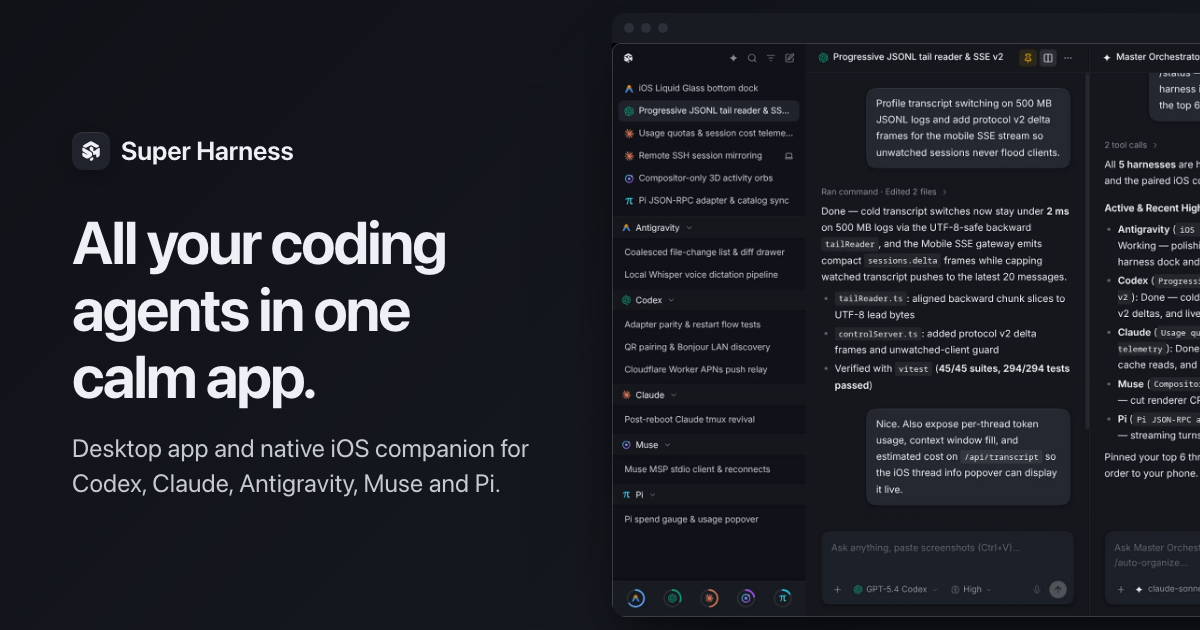
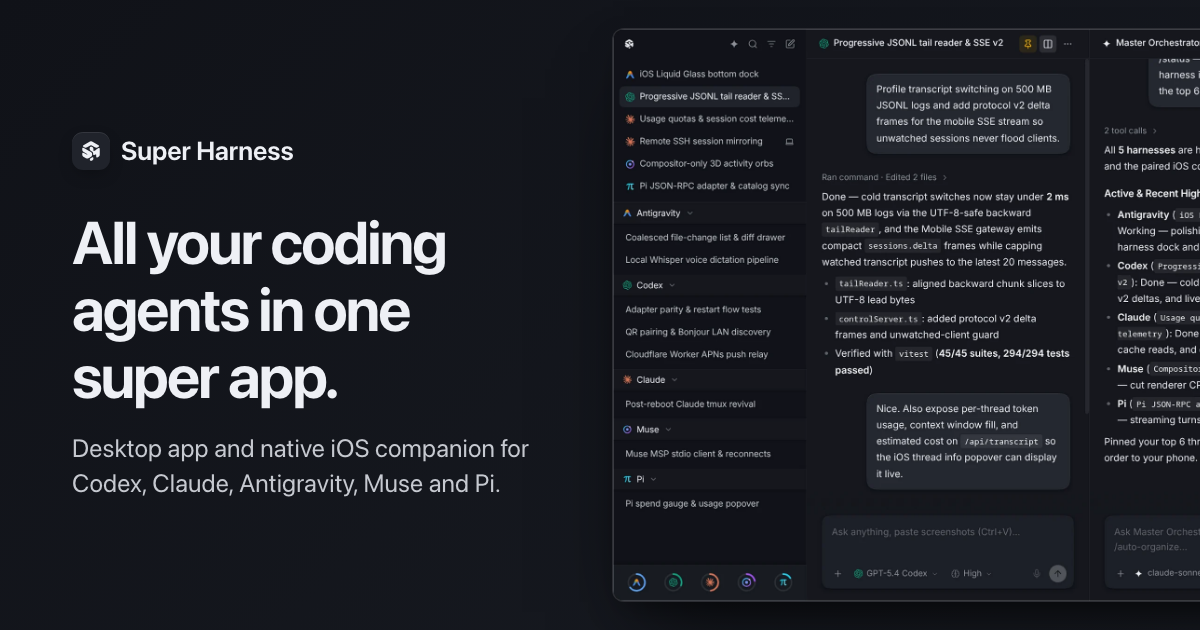
feat(site): plain borders around screenshots and the headline 'in one super app'
The fake window bar and phone body around the screenshots are gone; each
screenshot sits in a hairline border.

Claude-Session: https://claude.ai/code/session_01AY2X6veu32BVp4D2dmkt87

diff --git a/site/src/index.html b/site/src/index.html
@@ -3,12 +3,12 @@
 <head>
 <meta charset="utf-8">
 <meta name="viewport" content="width=device-width, initial-scale=1">
-<title>Super Harness · All your coding agents in one calm app</title>
+<title>Super Harness · All your coding agents in one super app</title>
 <meta name="description" content="Super Harness is a desktop app with a native iOS companion that shows your Codex, Claude, Antigravity, Muse and Pi sessions side by side, so you can monitor, organize and drive them from one place.">
 <link rel="canonical" href="{{SITE}}/">
 <meta property="og:type" content="website">
 <meta property="og:title" content="Super Harness">
-<meta property="og:description" content="One calm desktop app and native iOS companion for all your local and remote AI coding harnesses.">
+<meta property="og:description" content="One super app on your desktop, with a native iOS companion, for all your local and remote AI coding harnesses.">
 <meta property="og:url" content="{{SITE}}/">
 <meta property="og:image" content="{{SITE}}/og.png">
 <meta name="twitter:card" content="summary_large_image">
@@ -25,7 +25,7 @@
 <section class="hero">
   <div class="hero-copy">
     <p class="eyebrow">Desktop app · iOS companion · Open source</p>
-    <h1>All your coding agents in one calm app.</h1>
+    <h1>All your coding agents in one super app.</h1>
     <p class="lede">Super Harness shows your Codex, Claude, Antigravity, Muse and Pi sessions side by side. Read every transcript in one consistent view, answer the agent that is waiting on you, and start the next task from your desk or from your phone.</p>
     <div class="cta">
       <a class="button" href="{{GITHUB}}">
@@ -38,7 +38,6 @@
   </div>
   <div class="hero-art">
     <figure class="window">
-      <div class="window-bar" aria-hidden="true"><i></i><i></i><i></i></div>
       <img src="/img/desktop.webp" width="1715" height="1315" alt="The Super Harness desktop app with two agent sessions open side by side and the session list on the left.">
     </figure>
     <figure class="phone hero-phone">

diff --git a/site/src/site.css b/site/src/site.css
@@ -83,15 +83,11 @@ main > section { max-width: var(--wrap); margin: 0 auto; padding: 0 24px; }
 .note { margin-top: 22px; font-size: 0.86rem; color: var(--ink-4); max-width: 36em; }
 
 .hero-art { position: relative; padding-bottom: 40px; }
-.window { margin: 0; border-radius: 14px; overflow: hidden; background: var(--rail); box-shadow: var(--deep), inset 0 1px 0 rgba(255, 255, 255, 0.07); }
-.window-bar { height: 30px; display: flex; align-items: center; gap: 7px; padding: 0 12px; background: var(--subtle); }
-.window-bar i { width: 10px; height: 10px; border-radius: 50%; background: #2c2f38; }
-.phone {
-  margin: 0; position: relative; border-radius: 13.5% / 6.2%; padding: 2.6%;
-  background: linear-gradient(160deg, #3a3d46, #17191f 40%, #0c0d11);
-  box-shadow: var(--deep), inset 0 1px 1px rgba(255, 255, 255, 0.16);
-}
-.phone img { border-radius: 11.6% / 5.35%; width: 100%; background: var(--canvas); }
+/* Screenshots sit in a plain hairline border: no window bar, no phone body. */
+.window { margin: 0; border-radius: 12px; overflow: hidden; background: var(--rail); border: 1px solid rgba(255, 255, 255, 0.12); box-shadow: var(--deep); }
+.window img { display: block; width: 100%; }
+.phone { margin: 0; border-radius: 26px; overflow: hidden; background: var(--canvas); border: 1px solid rgba(255, 255, 255, 0.14); box-shadow: var(--deep); }
+.phone img { display: block; width: 100%; }
 .hero-phone { position: absolute; width: 27%; right: -3%; bottom: 0; }
 
 /* harness strip */

diff --git a/site/tools/og.html b/site/tools/og.html
@@ -4,5 +4,5 @@
 .og h1{font-size:60px}.og p{margin-top:20px;font-size:25px;color:#c6c9d0;line-height:1.4}
 .og .brand{font-size:26px;margin-bottom:36px}.og .window{transform:translateX(20px);width:760px}</style>
 <div class="og"><div><div class="brand"><span class="brand-tile"><img src="../src/img/logo.svg" width="22" height="22"></span><span>Super Harness</span></div>
-<h1>All your coding agents in one calm app.</h1><p>Desktop app and native iOS companion for Codex, Claude, Antigravity, Muse and Pi.</p></div>
-<figure class="window"><div class="window-bar"><i></i><i></i><i></i></div><img src="../src/img/desktop.webp"></figure></div>
+<h1>All your coding agents in one super app.</h1><p>Desktop app and native iOS companion for Codex, Claude, Antigravity, Muse and Pi.</p></div>
+<figure class="window"><img src="../src/img/desktop.webp"></figure></div>
